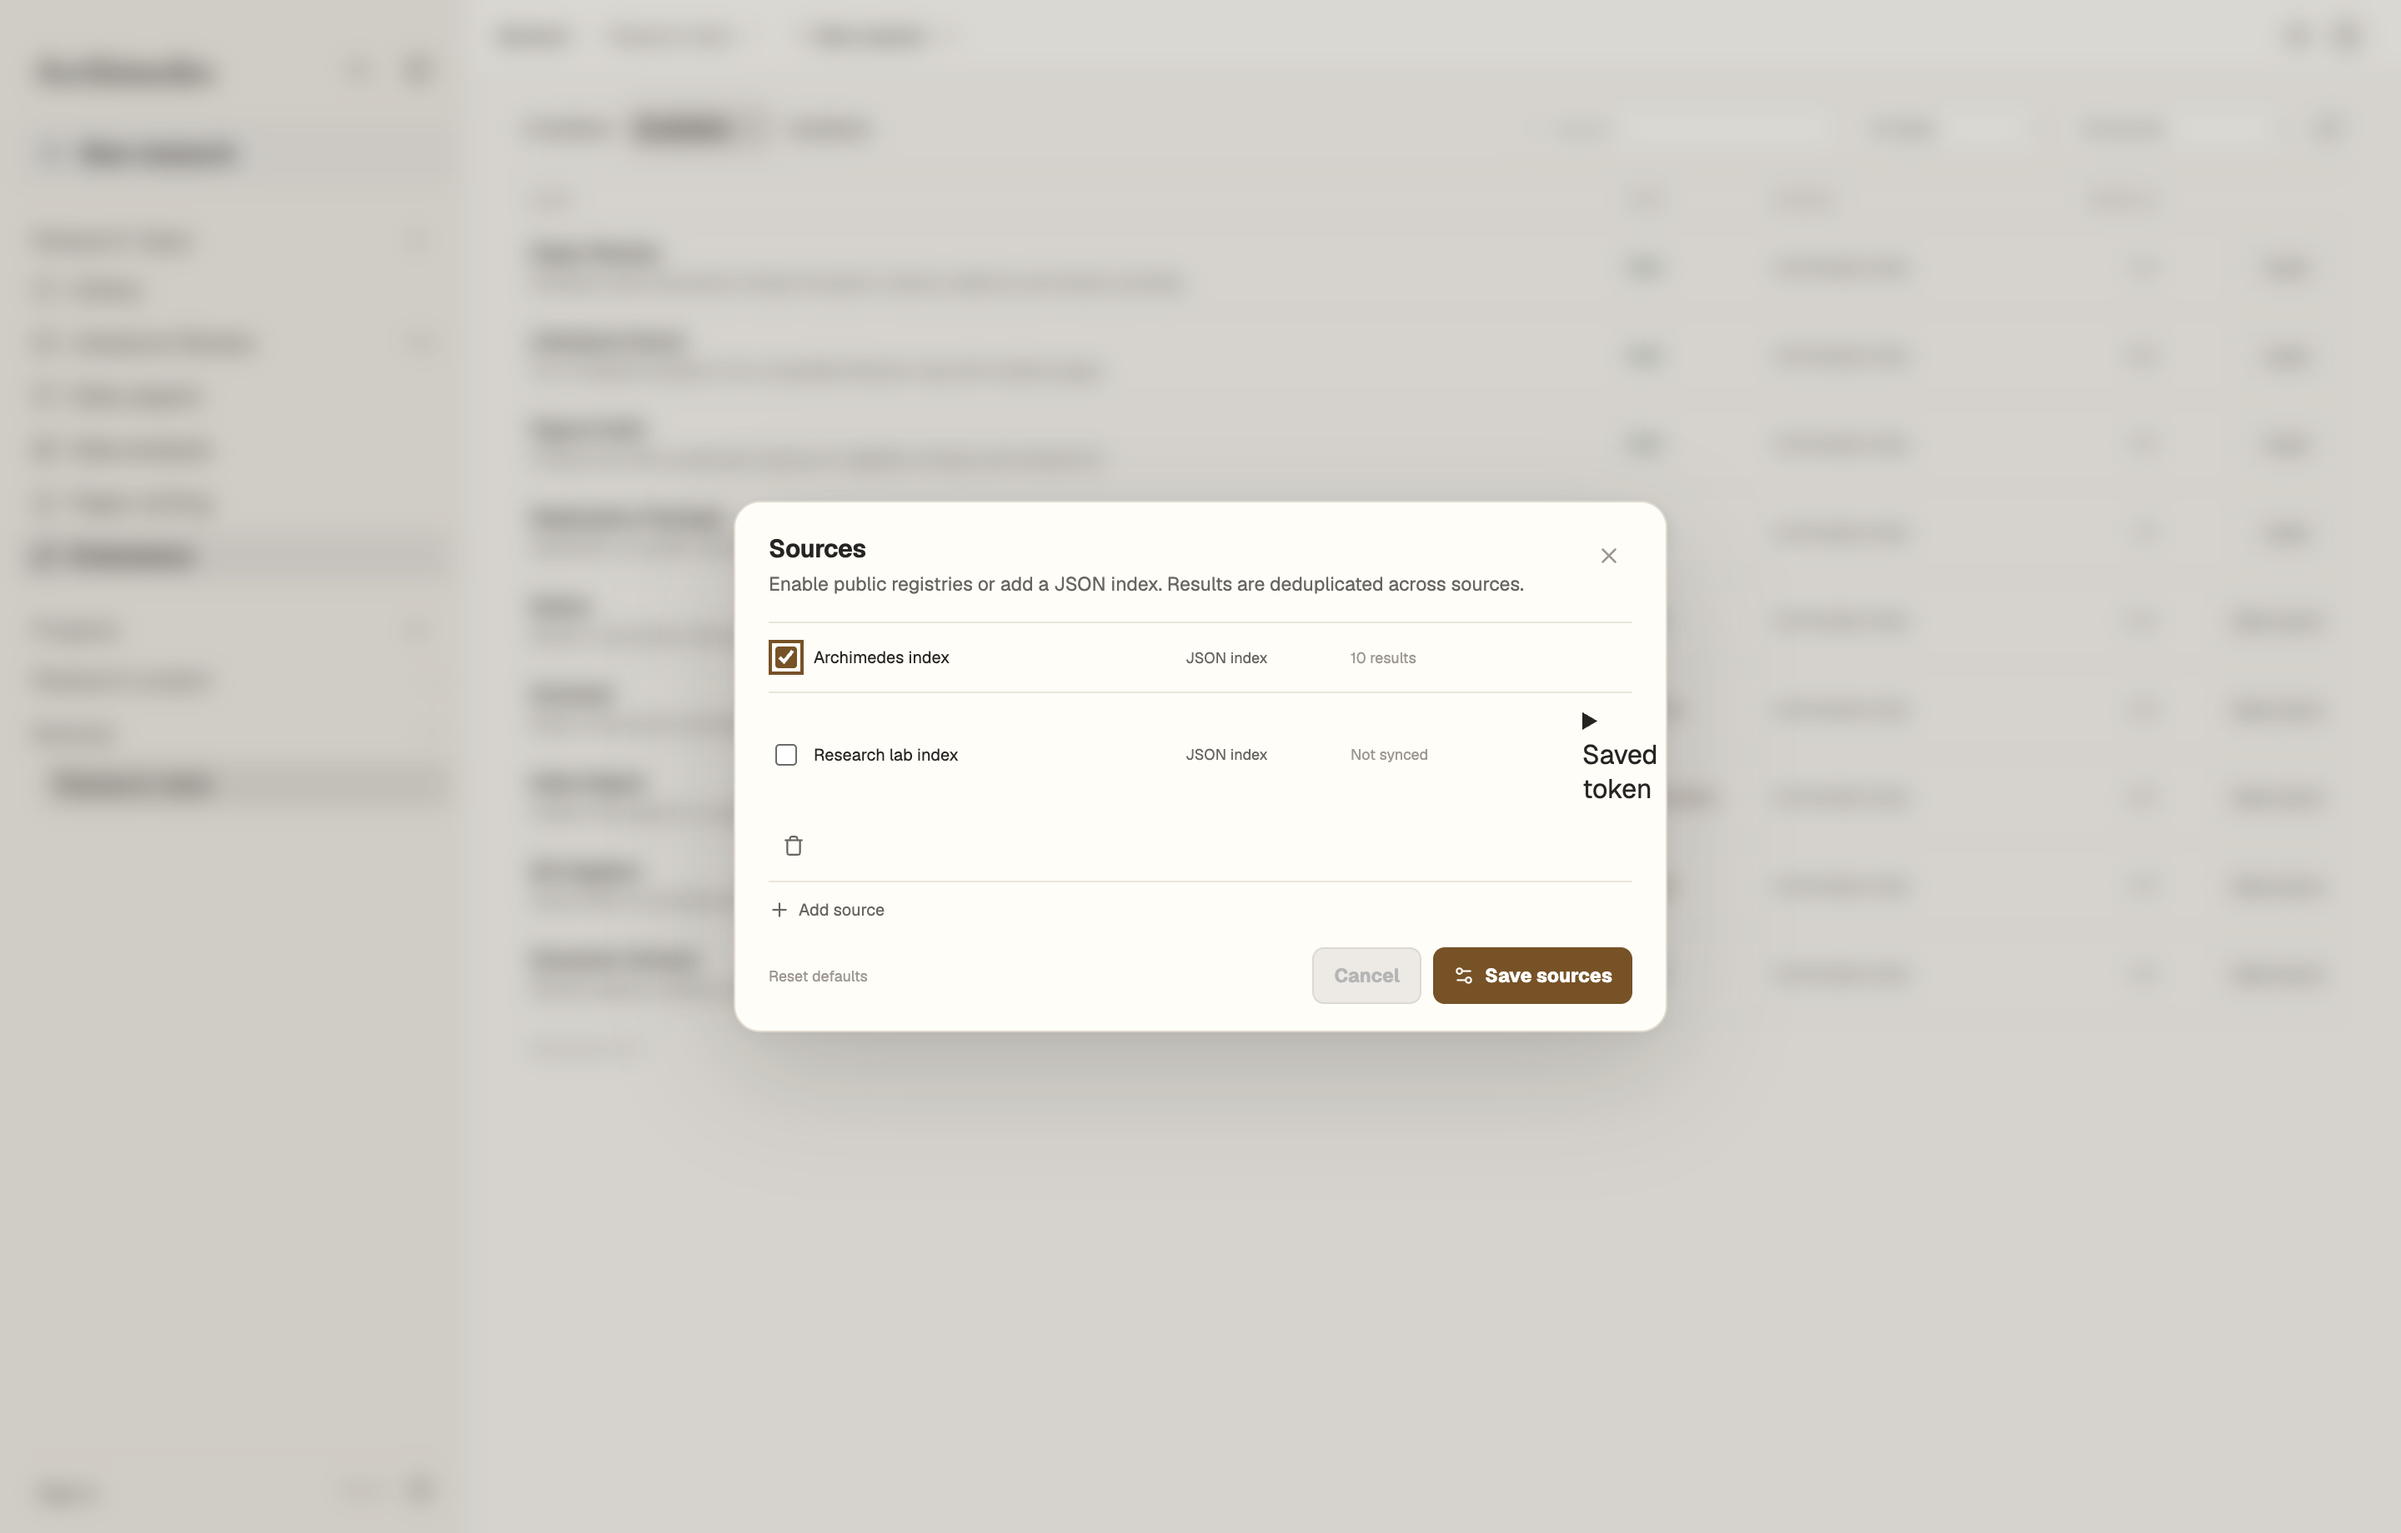
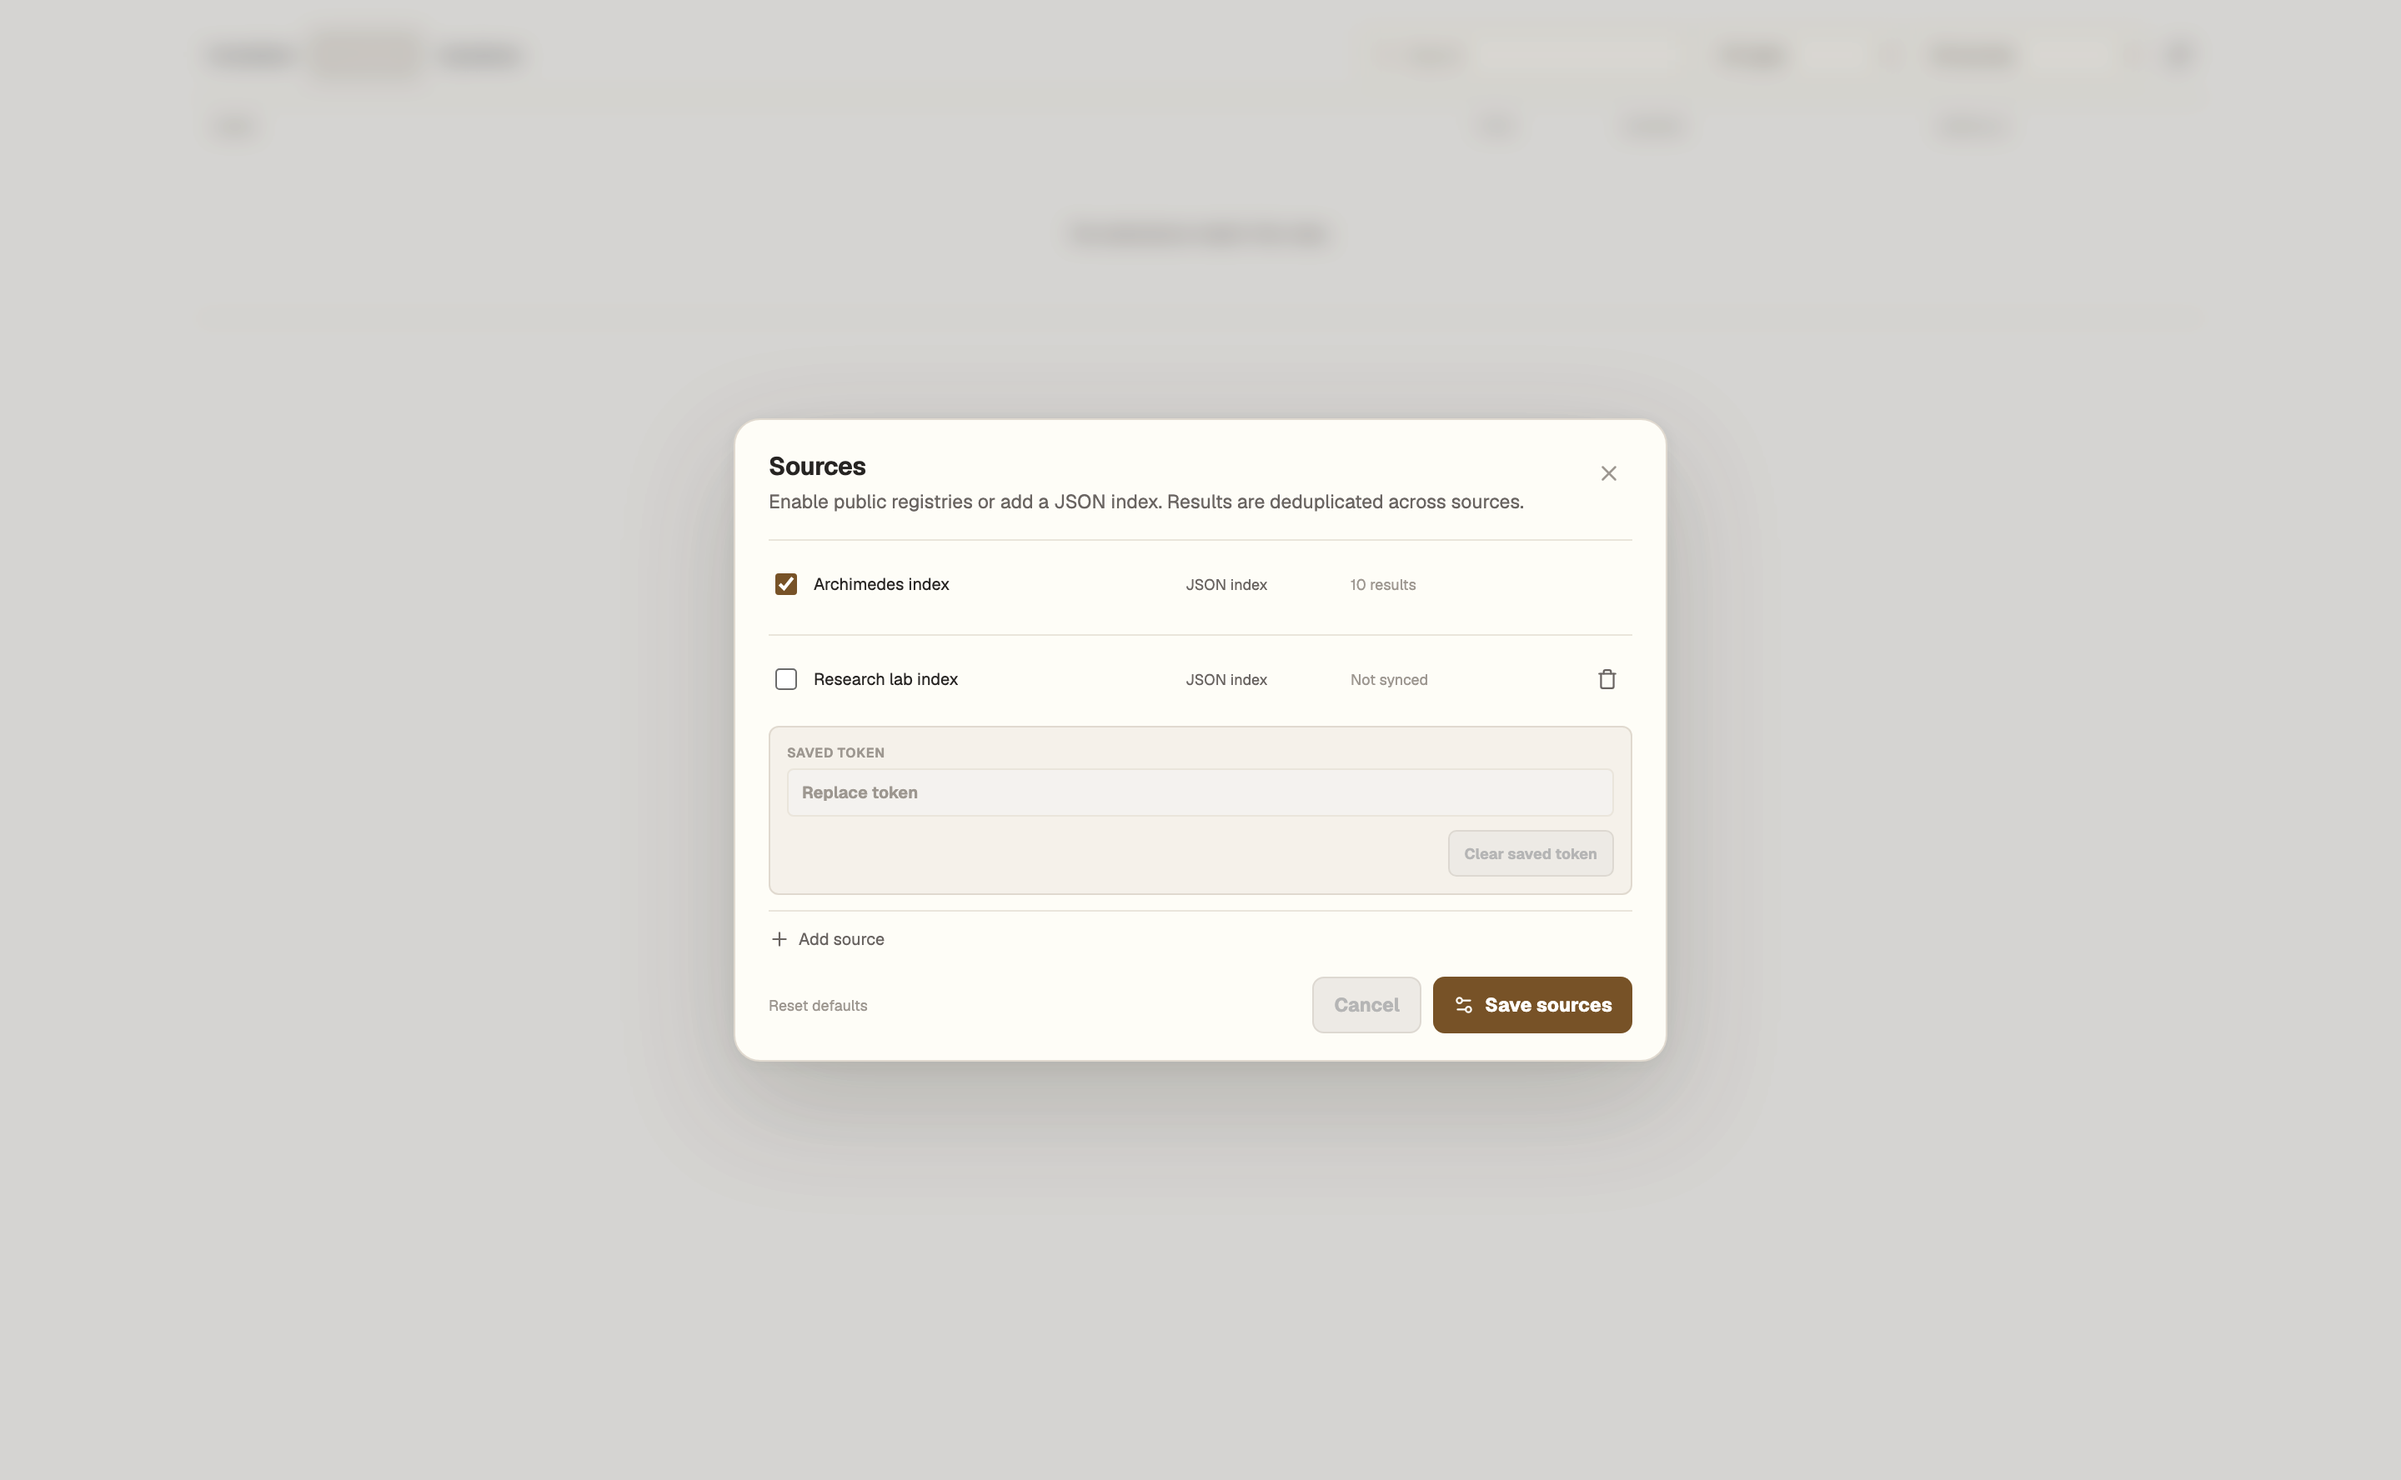
fix(extensions): align source token controls and redact credentials
Keep the saved-token editor on its own row so it no longer collapses the
source grid, localize the new credential errors, inspect decoded feed values
for echoed tokens, and redact invalid bearer values from cached errors.

diff --git a/src/ExtensionsView.tsx b/src/ExtensionsView.tsx
@@ -595,6 +595,10 @@ function SourceManager({ bridge, sources, onClose, onSaved }: {
   const [newSource, setNewSource] = useState({ name: "", type: "json" as ExtensionSourceType, url: "", token: "" });
   const [adding, setAdding] = useState(false);
 
+  const readableError = (reason: unknown) => t(String(reason)
+    .replace(/^Error invoking remote method '[^']+':\s*(?:Error:\s*)?/, "")
+    .replace(/^Error:\s*/, ""));
+
   useEffect(() => {
     if (sources.length) {
       setDraft(sources);
@@ -604,7 +608,7 @@ function SourceManager({ bridge, sources, onClose, onSaved }: {
     bridge.listExtensionSources().then((items) => {
       if (active) setDraft(items);
     }).catch((reason) => {
-      if (active) setError(String(reason).replace(/^Error:\s*/, ""));
+      if (active) setError(readableError(reason));
     });
     return () => { active = false; };
   }, [bridge, sources]);
@@ -616,7 +620,7 @@ function SourceManager({ bridge, sources, onClose, onSaved }: {
   function addSource() {
     const name = newSource.name.trim();
     if (!name) {
-      setError("Give the source a name.");
+      setError(t("Give the source a name."));
       return;
     }
     const id = `custom-${Date.now().toString(36)}`;
@@ -641,7 +645,7 @@ function SourceManager({ bridge, sources, onClose, onSaved }: {
       const next = await bridge.saveExtensionSources(draft);
       onSaved(next);
     } catch (reason) {
-      setError(String(reason).replace(/^Error:\s*/, ""));
+      setError(readableError(reason));
     } finally {
       setSaving(false);
     }
@@ -655,7 +659,7 @@ function SourceManager({ bridge, sources, onClose, onSaved }: {
       setDraft(next);
       onSaved(next);
     } catch (reason) {
-      setError(String(reason).replace(/^Error:\s*/, ""));
+      setError(readableError(reason));
     } finally {
       setSaving(false);
     }
@@ -665,16 +669,20 @@ function SourceManager({ bridge, sources, onClose, onSaved }: {
       <header className="app-dialog-header"><div><h2 id="extensions-sources-title">Sources</h2><p>Enable public registries or add a JSON index. Results are deduplicated across sources.</p></div><button className="app-dialog-close" onClick={onClose} aria-label="Close"><X size={15} /></button></header>
       <div className="app-dialog-body extensions-sources-body">
       <div className="extensions-source-list">
-        {draft.map((source) => <div className="extensions-source-row" key={source.id}>
-          <label className="extensions-source-toggle"><input type="checkbox" checked={source.enabled} onChange={(event) => updateSource(source.id, { enabled: event.target.checked })} /><span>{source.name}</span></label>
-          <span className="extensions-source-kind">{SOURCE_TYPE_LABEL[source.type]}</span>
-          <span className="extensions-source-state">{source.error ? <span className="error">{source.error}</span> : source.count ? `${source.count} results` : "Not synced"}</span>
-          {source.hasToken && <details><summary>{t("Saved token")}</summary>
-            <input aria-label={t("Replace token")} type="password" autoComplete="new-password"
-              placeholder={t("Replace token")} value={source.token || ""} onChange={event => updateSource(source.id, { token: event.target.value || undefined })} />
-            <button type="button" className="secondary-button" onClick={() => updateSource(source.id, { token: "", hasToken: false })}>{t("Clear saved token")}</button>
-          </details>}
-          {!source.builtin && <button className="extensions-icon-button" onClick={() => setDraft((current) => current.filter((candidate) => candidate.id !== source.id))} aria-label={`Remove ${source.name}`}><Trash size={13} /></button>}
+        {draft.map((source) => <div className="extensions-source-entry" key={source.id}>
+          <div className="extensions-source-row">
+            <label className="extensions-source-toggle"><input type="checkbox" checked={source.enabled} onChange={(event) => updateSource(source.id, { enabled: event.target.checked })} /><span>{source.name}</span></label>
+            <span className="extensions-source-kind">{SOURCE_TYPE_LABEL[source.type]}</span>
+            <span className="extensions-source-state">{source.error ? <span className="error">{t(source.error)}</span> : source.count ? `${source.count} results` : "Not synced"}</span>
+            {!source.builtin && <button className="extensions-icon-button" onClick={() => setDraft((current) => current.filter((candidate) => candidate.id !== source.id))} aria-label={`Remove ${source.name}`}><Trash size={13} /></button>}
+          </div>
+          {source.hasToken && <div className="extensions-new-source extensions-source-token">
+            <label>{t("Saved token")}<input aria-label={t("Replace token")} type="password" autoComplete="new-password"
+              placeholder={t("Replace token")} value={source.token || ""} onChange={event => updateSource(source.id, { token: event.target.value || undefined })} /></label>
+            <div className="extensions-form-actions">
+              <button type="button" className="secondary-button" onClick={() => updateSource(source.id, { token: "", hasToken: false })}>{t("Clear saved token")}</button>
+            </div>
+          </div>}
         </div>)}
       </div>
       {adding ? <div className="extensions-new-source">

diff --git a/src/i18n/translations/settings.ts b/src/i18n/translations/settings.ts
@@ -78,6 +78,8 @@ export const settings: Record<string, string> = {
   "Corner radius for buttons, inputs, and controls.": "按钮、输入框和控件的圆角。",
   "Could not load SSH servers.": "无法加载 SSH 服务器。",
   "Could not load the research apps.": "无法加载科研应用。",
+  "Could not read extension sources.": "无法读取扩展来源。",
+  "Could not verify the saved extension credential.": "无法验证已保存的扩展凭据。",
   "Create or rotate a key in the provider dashboard.": "在提供商控制台创建或轮换密钥。",
   "Current folder and access": "当前文件夹与访问权限",
   "Current workspace": "当前工作区",
@@ -113,6 +115,7 @@ export const settings: Record<string, string> = {
   "Experiments & evaluation": "实验与评估",
   "Export defaults": "导出默认值",
   "Export the current appearance or import a shared .archtheme.json file.": "导出当前外观，或导入共享的 .archtheme.json 文件。",
+  "Extensions settings are unavailable.": "扩展设置不可用。",
   "External terminal": "外部终端",
   "Field fill and border treatment across the app.": "整个应用输入框的填充与边框处理。",
   "File icons": "文件图标",
@@ -135,6 +138,7 @@ export const settings: Record<string, string> = {
   "Get a {provider} API key": "获取 {provider} API key",
   "Ghost": "幽灵",
   "Ghostty · recommended": "Ghostty · 推荐",
+  "Give the source a name.": "请给来源起一个名称。",
   "Glass": "玻璃",
   "Global": "全局",
   "GPU workstation": "GPU 工作站",
@@ -280,6 +284,7 @@ export const settings: Record<string, string> = {
   "Summary only": "仅摘要",
   "Surface color": "表面颜色",
   "Surface depth": "表面层次",
+  "System encryption is unavailable. The secret was not saved.": "系统加密不可用，密钥未保存。",
   "System mono": "系统等宽字体",
   "Tabs, terminal, and research path": "标签、终端与研究路径",
   "Terminal settings": "终端设置",
@@ -292,11 +297,14 @@ export const settings: Record<string, string> = {
   "The account Archimedes connects as. It must already be able to log in with a key.": "Archimedes 连接使用的账号，需要已经可以用密钥登录。",
   "The API key is stored in Electron user data and never returned to the page.": "API key 存储在 Electron 用户数据中，不会返回给页面。",
   "The connection could not be tested.": "连接测试失败。",
+  "The extension source returned invalid JSON.": "扩展来源返回了无效的 JSON。",
+  "The extension source returned its credential.": "扩展来源返回了其凭据。",
   "The research app could not be installed.": "无法安装科研应用。",
   "The research app could not be removed.": "无法移除科研应用。",
   "The research app could not be updated.": "无法更新科研应用。",
   "The server could not be removed.": "服务器删除失败。",
   "The server could not be saved.": "服务器保存失败。",
+  "The token contains characters that cannot be sent in an Authorization header.": "令牌包含无法放入 Authorization 请求头的字符。",
   "Theme": "主题",
   "Theme and fonts": "主题与字体",
   "Theme pack": "主题包",

diff --git a/src/styles.css b/src/styles.css
@@ -4990,7 +4990,10 @@ html:not([data-theme="paper"]) .paper-review-notice span { color: #b9a48b; }
 .extensions-scope-field small { color: var(--night-faint); font: 9px "SFMono-Regular", Consolas, monospace; }
 .extensions-source-modal { width: min(620px, 100%); }
 .extensions-source-list { display: grid; border-top: 1px solid var(--night-line-soft); }
+.extensions-source-entry { display: grid; gap: 7px; padding: 5px 0 9px; border-bottom: 1px solid var(--night-line-soft); }
+.extensions-source-entry .extensions-source-row { padding: 0; border-bottom: 0; }
 .extensions-source-row { display: grid; grid-template-columns: minmax(0, 1fr) 90px 130px 30px; align-items: center; gap: 9px; min-height: 42px; padding: 6px 0; border-bottom: 1px solid var(--night-line-soft); }
+.extensions-source-token { margin: 0; }
 .extensions-source-toggle { display: flex; min-width: 0; align-items: center; gap: 7px; color: var(--night-ink); font-size: 10px; }
 .extensions-source-toggle span { overflow: hidden; text-overflow: ellipsis; white-space: nowrap; }
 .extensions-source-toggle input { accent-color: var(--accent); }
